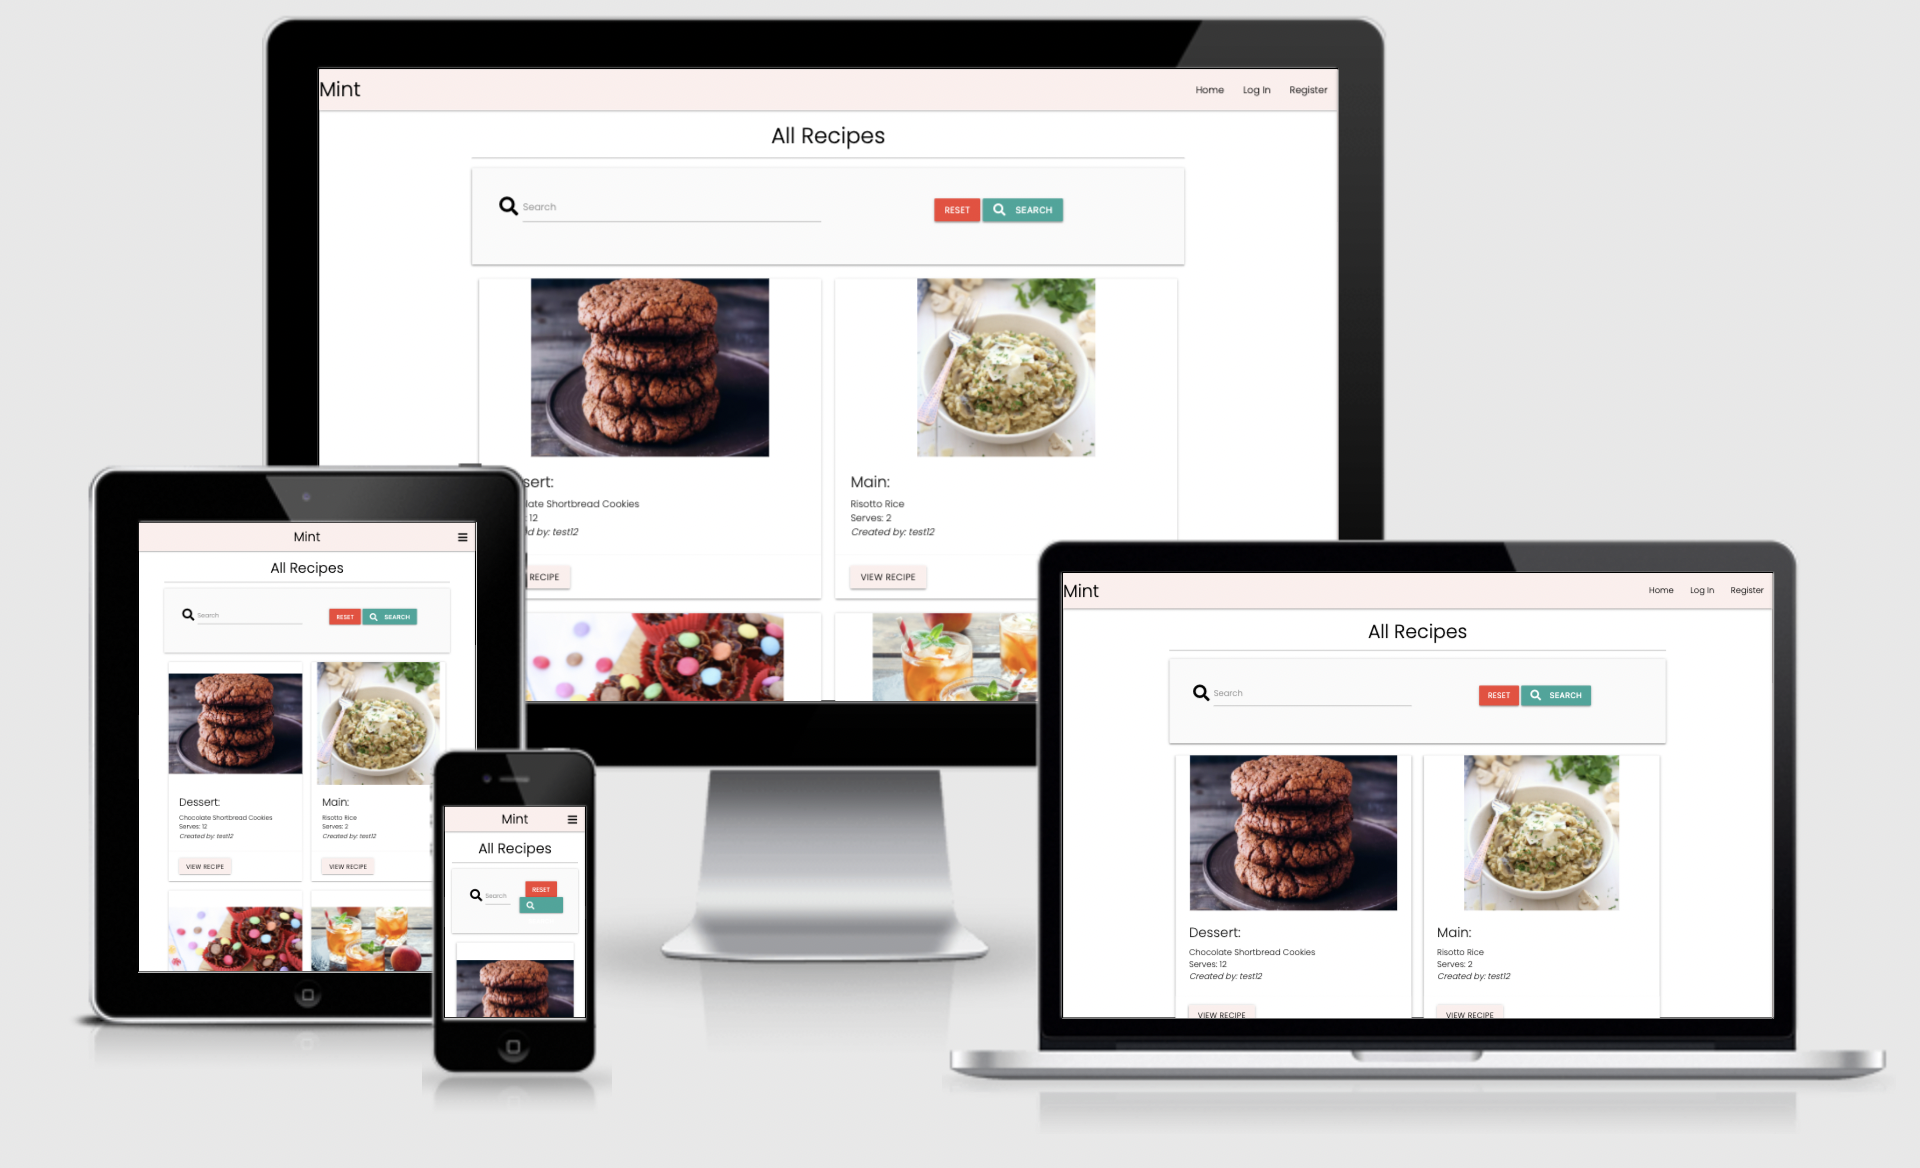
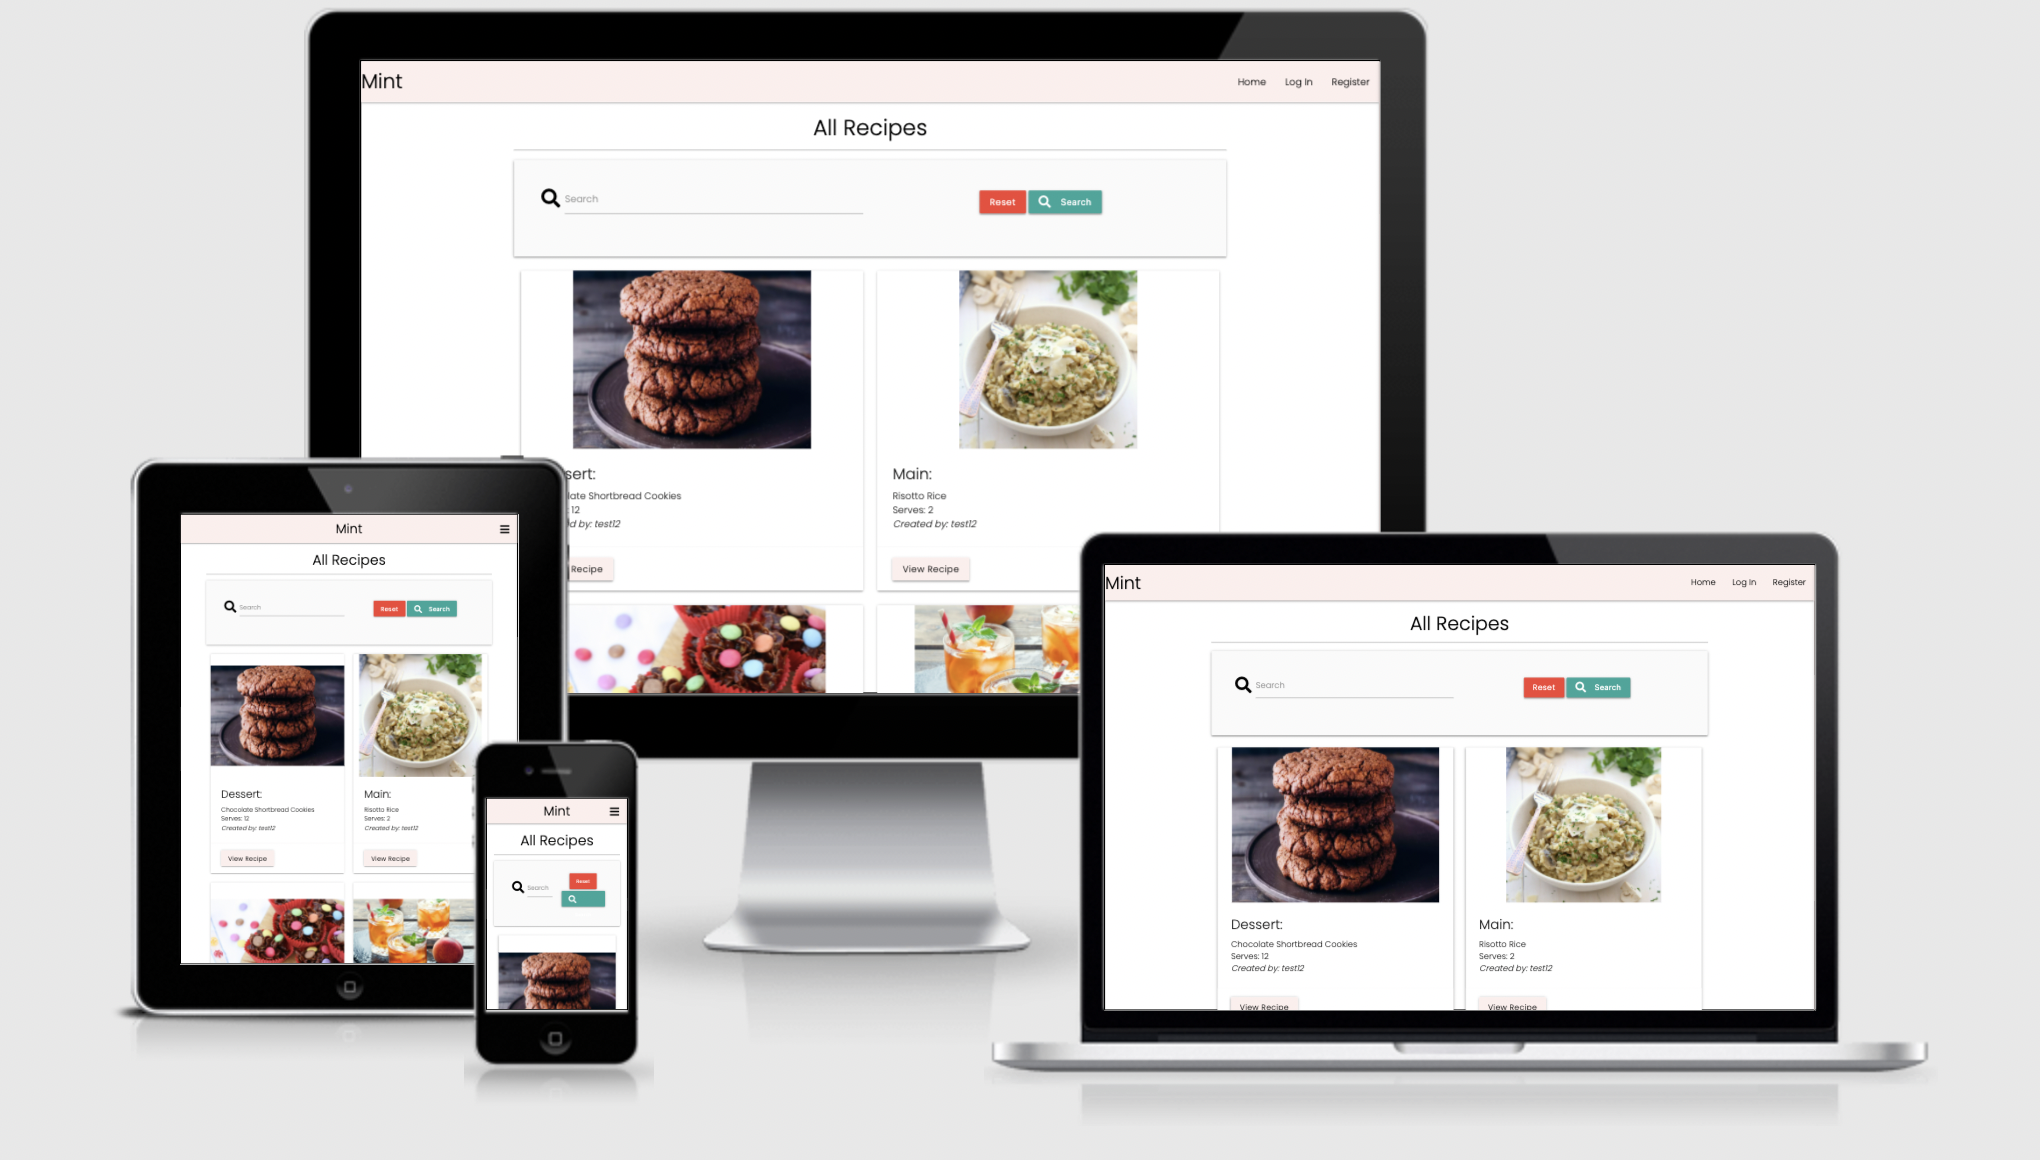
buttons made responsive

diff --git a/templates/recipes.html b/templates/recipes.html
@@ -44,6 +44,7 @@
             <div class="card-action">
               <a href="{{url_for('recipesingle', recipe_id=recipe._id)}}" 
               class="btn btn-view text-shadow backgroundcolor black-text">View Recipe</a>
+              <br>
               {% if session.user|lower == recipe.created_by|lower %}
                 <a href="{{ url_for('edit_recipe', recipe_id=recipe._id) }}"
                     class="fas fa-edit recipe-btn btn-small btn"> Edit</a>

diff --git a/templates/utensils.html b/templates/utensils.html
@@ -42,6 +42,7 @@
       <div class="card-action">
         <a href="{{url_for('utensil', utensil_id=utensil._id)}}"
           class="btn btn-view text-shadow backgroundcolor black-text">View Utensil</a>
+          <br>
         {% if session.utensil_user|lower == utensil.utesnil_created_by|lower %}
         <a href="{{ url_for('edit_utensil', utensil_id=utensil._id) }}" 
         class="fas fa-edit btn-small btn"> Edit</a>

diff --git a/static/css/style.css b/static/css/style.css
@@ -48,6 +48,16 @@ body {
     margin: 5px;
 }
 
+.btn, .btn-large, .btn-small, .btn-flat {
+    text-transform: none;
+}
+
+@media screen and (max-width: 767px){ 
+    .btn, .btn-large, .btn-small, .btn-flat .search-btn {
+        font-size: 75%;
+        margin-top: 4px;
+    }
+}
 
 /* images */
 

diff --git a/README.md b/README.md
@@ -150,10 +150,10 @@ Click on the page name to see the result:
 [Google lighthouse](https://developers.google.com/web/tools/lighthouse) was used to test the performance, accessibility, best practices and SEO of the website.
 
 ### Javascript
-[JS Hint](https://jshint.com/) was used to test the Javascript code. All pages passed with zerp errors, click on the pages to see the results:
+[JS Hint](https://jshint.com/) was used to test the Javascript code. All pages passed with zero errors, click on the pages to see the results:
 
 ### Python
-
+No Python errors. 
 
 ### Testing client stories from UX section 
 
